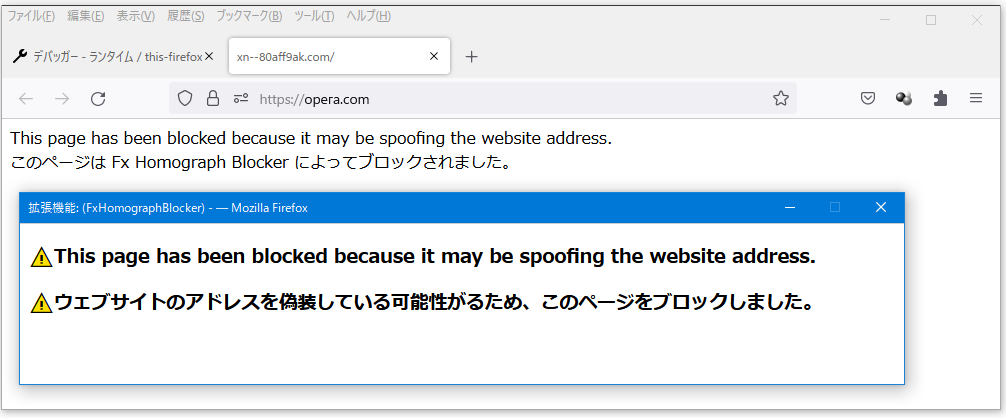
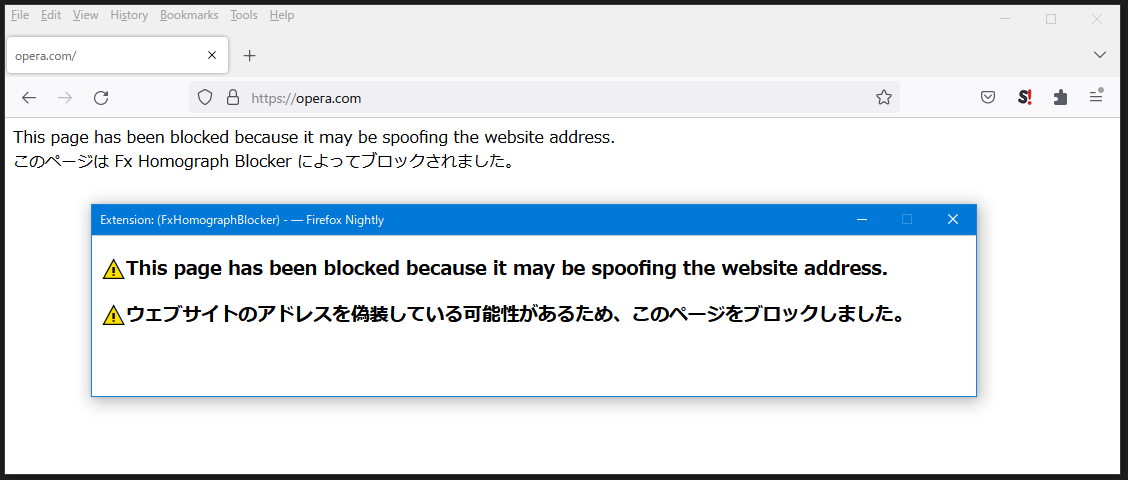
Fix regx and encoding
Fixed Shift-JIS character encoding mismatch by modifying regular expressions.
Replaced the screenshot.

Changed region(s): [[0.0, 0.0, 1.0, 1.0], [0.7704, 0.1866, 0.8012, 0.2488], [0.4622, 0.1244, 0.493, 0.1555]]

diff --git a/background.js b/background.js
@@ -7,7 +7,7 @@ function listener(details) {
     var decoder = new TextDecoder();
     let encoder = new TextEncoder();
     var str = decoder.decode(event.data, {stream: true});
-    if (/ ?charset=Shift_JIS"? ?\/?>?/gi.test(str)) {
+    if (/(<meta )*charset=["']?Shift_JIS["']?.*?>/ig.test(str)) {
       decoder = new TextDecoder("shift-jis");
       str = decoder.decode(event.data, {stream: true});
     }
@@ -30,12 +30,12 @@ function listener(details) {
         filter.write(encoder.encode("<p>This page has been blocked because it may be spoofing the website address.<br>このページは Fx Homograph Blocker によってブロックされました。</p>"));
         filter.disconnect();
         } else {
-         // str = str.replace(/ ?charset=Shift_JIS"? ?\/?>?/gi, 'charset=utf-8" />');
+          str = str.replace(/charset=["']?Shift_JIS["']?.*?>/ig, "charset=utf-8\" />"); // Force change UTF-8
           filter.write(encoder.encode(str));
           filter.disconnect();
         }
     } else {
-     // str = str.replace(/ ?charset=Shift_JIS"? ?\/?>?/gi, 'charset=utf-8" />');
+      str = str.replace(/charset=["']?Shift_JIS["']?.*?>/ig, "charset=utf-8\" />"); // Force change UTF-8
       filter.write(encoder.encode(str));
       filter.disconnect();
     }
@@ -93,3 +93,22 @@ function GetHostnamesLists (domainnames) {
   const uniquehostnames = Array.from(new Set(hostnames));
   return uniquehostnames;
 }
+
+// Add the new header to the original array,
+// and return it.
+function UpdateContentType(e) {
+  const ContentType = {
+    name: "Content-Type",
+    value: "text/html; charset=utf-8"
+  };
+  e.responseHeaders.push(ContentType);
+  return { responseHeaders: e.responseHeaders };
+}
+
+// Listen for onHeaderReceived for the target page.
+// Set "blocking" and "responseHeaders".
+browser.webRequest.onHeadersReceived.addListener(
+  UpdateContentType,
+  {urls: ["<all_urls>"], types: ["main_frame"]},
+  ["blocking", "responseHeaders"]
+);

diff --git a/popup.html b/popup.html
@@ -2,16 +2,13 @@
 <html>
   <head>
     <meta charset="UTF-8">
+    <meta http-equiv="cache-control" content="no-cache, no-store">
+    <meta http-equiv="pragma" content="no-cache">
+    <meta name="expires" content="0">
     <meta http-equiv="Content-Type" content="text/html; charset=utf-8">
   </head>
   <body>
     <h3>⚠This page has been blocked because it may be spoofing the website address.</h3>
     <h3>⚠ウェブサイトのアドレスを偽装している可能性があるため、このページをブロックしました。</h3>
-    <!-- <h1>🔍もしかして: opera.com</h1>
-    <p>⚠ウェブサイトのアドレスを改変して、偽装している可能性があります。このページをブロックしますか？ </p>
-    <form action="#" method="post">
-      <input type="button" name="Block" value="Yes" onclick="window.close();">
-      <input type="button" name="Block" value="No" onclick="window.close();">
-    </form> -->
   </body>
 </html>
